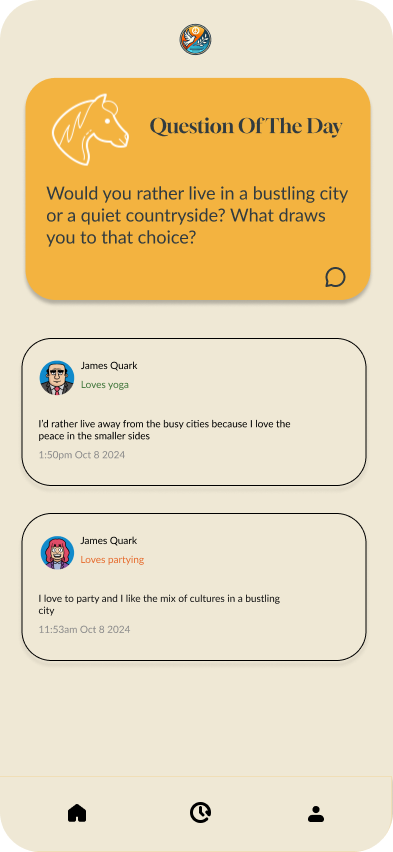
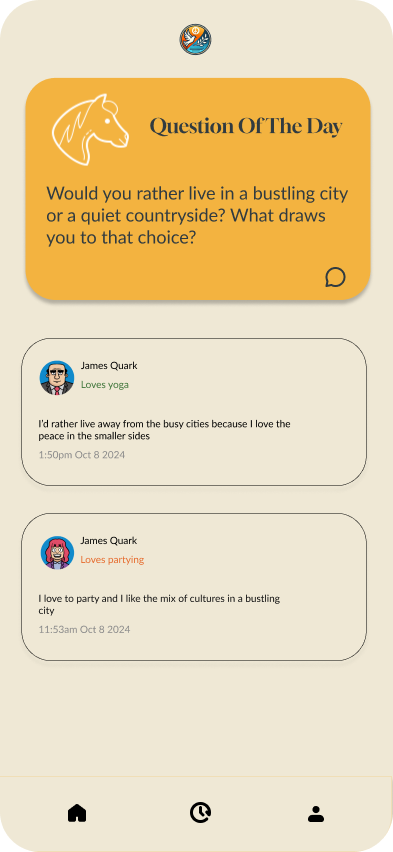
changes  to readme

Changed region(s): [[0.916, 0.7324, 0.9466, 0.7629]]

diff --git a/README.md b/README.md
@@ -1,1 +1,85 @@
-# Showcase-portfolio
+# 📌 Portfolio Website – Praise Ibhaze
+
+A responsive personal portfolio website showcasing my work in mobile development, web development, and UI/UX design.  
+The site includes a custom cursor interaction, scroll-based animations, and detailed project case studies.
+
+---
+
+# ✨ Features
+
+## 🎯 Cursor-follow.js
+- Smooth trailing outer circle  
+- Inner circle stays inside the main circle  
+- Cursor color changes based on background contrast  
+- Enlarged cursor when hovering links  
+
+## ⏳ index.js
+- Counts from **0 → 100**  
+- Plays a drag-down animation  
+- Redirects to `homepage.html`  
+
+## 📌 Navigation
+- Logo + section anchors  
+- **ABOUT** and **PROJECTS** links  
+
+## 🔗 Contact Section
+- LinkedIn  
+- GitHub  
+- Email  
+- QR Code generated using **QRCode.js**  
+
+## 🎬 Scroll Reveal Animations
+- Powered by **IntersectionObserver**  
+- Respects `prefers-reduced-motion`  
+- Animations replay when scrolling back up  
+
+## 📱 Project Case Study Pages
+- **WISH 'N TOSS** – toy exchange mobile app  
+- Screens, processes, problems, and outcomes  
+- “Next Project” navigation  
+
+---
+
+# 🛠 Tech Stack
+- HTML5  
+- CSS3  
+- JavaScript  
+- QRCode.js (CDN)  
+- IntersectionObserver API  
+
+---
+
+# Key Scripts Overview
+## Loader Script
+
+- Increments a counter from 0–100
+
+- Triggers exit animation
+
+- Redirects to homepage
+
+## Cursor Script
+
+- Smooth mouse-follow animation
+
+- Clamped inner circle
+
+- Dynamic color contrast detection
+
+- Enlarges on link hover
+
+## Scroll Reveal
+
+- Adds is-visible when elements enter viewport
+
+- Removes on exit so the animation can replay
+
+# 👤 Author
+
+Praise Ibhaze
+
+- LinkedIn: https://www.linkedin.com/in/ibhaze-praise/
+
+- GitHub: https://github.com/ibhaze
+
+- Email: ibhazepraise7@gmail.com
